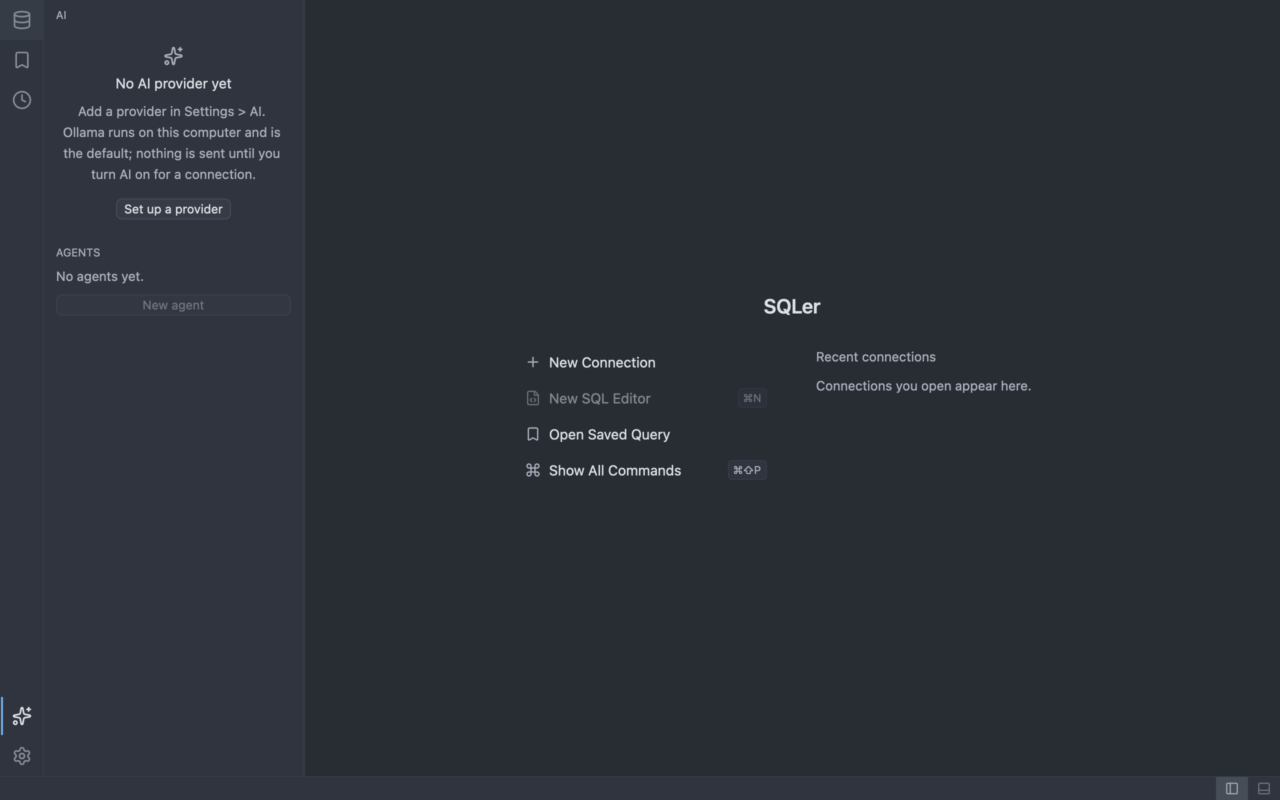
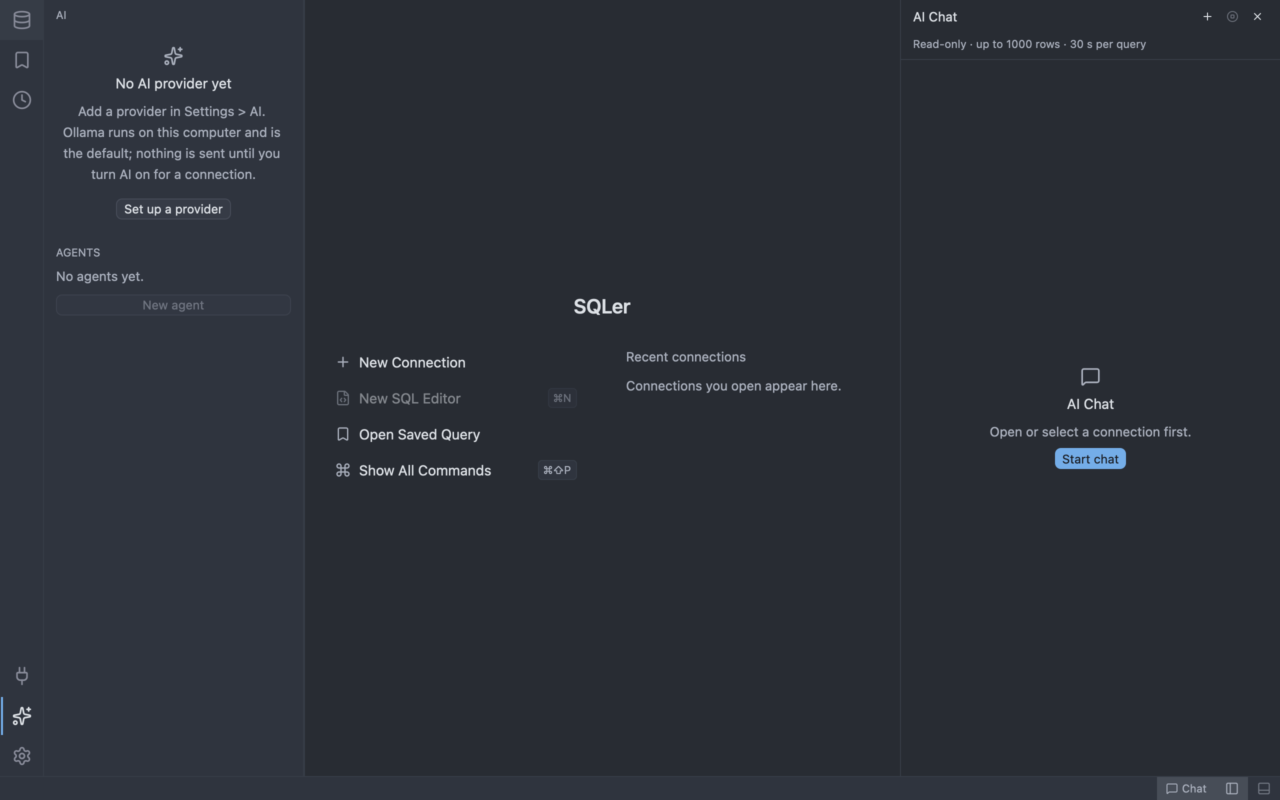
Fit the AI chat empty, starting and failed states inside the panel (#146)

diff --git a/crates/sqler-ui/src/workspace/view/shell/layout_tests.rs b/crates/sqler-ui/src/workspace/view/shell/layout_tests.rs
@@ -296,3 +296,38 @@ fn the_editor_fills_the_rest_with_the_chat_side_and_bottom_panels_open(cx: &mut 
     assert_fills(c4, e4, "chat closed again");
     assert!(near_f(e3.size.width, e4.size.width, chat));
 }
+
+#[gpui::test]
+fn the_chat_empty_state_fits_the_panel_at_every_width(cx: &mut TestAppContext) {
+    use sqler_config::CHAT_PANEL_SIZE_RANGE;
+
+    let (rig, cx) = open(cx);
+    cx.simulate_resize(size(px(1280.), px(800.)));
+    workbench(&rig, cx, WorkbenchAction::ToggleChatPanel);
+    assert!(rig.view.read_with(cx, |v, _| v.ws.layout().chat_visible()));
+    assert!(rig.view.read_with(cx, |v, _| v.ws.chat().is_none()));
+    let tolerance = px(1.);
+    // The empty state keeps the horizontal padding of `centred` free on both sides.
+    let gutter = px(crate::theme::SPACE[4]);
+    for width in [
+        *CHAT_PANEL_SIZE_RANGE.start(),
+        380.,
+        *CHAT_PANEL_SIZE_RANGE.end(),
+    ] {
+        workbench(&rig, cx, WorkbenchAction::SetChatWidth(width as u16));
+        let panel = cx.debug_bounds("chat-panel").expect("the chat panel");
+        let empty = cx.debug_bounds("chat-empty").expect("the empty state");
+        assert!(
+            empty.left() + tolerance >= panel.left() + gutter,
+            "left edge out at {width}: {empty:?} in {panel:?}"
+        );
+        assert!(
+            empty.right() <= panel.right() - gutter + tolerance,
+            "right edge out at {width}: {empty:?} in {panel:?}"
+        );
+        assert!(
+            empty.size.width <= panel.size.width - gutter * 2. + tolerance,
+            "wider than the panel at {width}: {empty:?} in {panel:?}"
+        );
+    }
+}

diff --git a/crates/sqler-ui/src/ai/chat/view.rs b/crates/sqler-ui/src/ai/chat/view.rs
@@ -49,11 +49,11 @@ pub(crate) fn chat_panel(
     let body = match ws.chat() {
         None => empty(view, cx),
         Some(chat) => match chat.phase() {
-            SessionPhase::Starting => centred(
+            SessionPhase::Starting => fitted(
                 empty_state(AppIcon::Sparkles, STARTING_TITLE, STARTING_LINE, cx),
                 cx,
             ),
-            SessionPhase::Failed(message) => centred(
+            SessionPhase::Failed(message) => fitted(
                 empty_state(AppIcon::CircleAlert, FAILED_TITLE, message.clone(), cx),
                 cx,
             ),
@@ -62,6 +62,7 @@ pub(crate) fn chat_panel(
     };
     div()
         .id("chat-panel")
+        .debug_selector(|| "chat-panel".to_owned())
         .track_focus(focus)
         .size_full()
         .flex()
@@ -174,8 +175,19 @@ fn empty(view: &WorkspaceView, cx: &mut Context<WorkspaceView>) -> AnyElement {
         .on_click(cx.listener(move |view, _: &ClickEvent, _, cx| {
             view.dispatch_ai(action.clone(), cx);
         }));
-    centred(
+    fitted(
         empty_state(AppIcon::MessageSquare, CHAT_TITLE, line, cx).child(button),
+        cx,
+    )
+}
+
+/// An empty state of the chat panel, sized to the panel so its text wraps at any width.
+fn fitted(content: Div, cx: &Context<WorkspaceView>) -> AnyElement {
+    centred(
+        content
+            .w_full()
+            .min_w_0()
+            .debug_selector(|| "chat-empty".to_owned()),
         cx,
     )
 }

diff --git a/crates/sqler-ui/src/workspace/view/scene.rs b/crates/sqler-ui/src/workspace/view/scene.rs
@@ -639,7 +639,10 @@ fn steps_of(scene: &Scene) -> Vec<Step> {
             Step::Command("workbench:show-ai"),
         ],
         "ai-audit" => vec![Step::Command("ai:open-audit-log"), Step::AuditFixture],
-        "ai-side-view-empty" => vec![Step::Command("workbench:show-ai")],
+        "ai-side-view-empty" => vec![
+            Step::Command("workbench:show-ai"),
+            Step::Command("ai:toggle-chat"),
+        ],
         "ai-settings" => vec![Step::Command("ai:open-settings")],
         "ai-provider-editor" => vec![
             Step::Command("ai:open-settings"),

diff --git a/CHANGELOG.md b/CHANGELOG.md
@@ -15,6 +15,7 @@ and this project adheres to [Semantic Versioning](https://semver.org/spec/v2.0.0
 
 - With text selected, Cmd/Ctrl+Enter and the Run button run exactly the selection; the editor text is never changed.
 - Run Statement finds statements separated by a blank line, without semicolons.
+- The AI chat panel's empty, starting and failed states wrap inside the panel at every width instead of overflowing it.
 
 ## [1.1.0] - 2026-10-26
 
